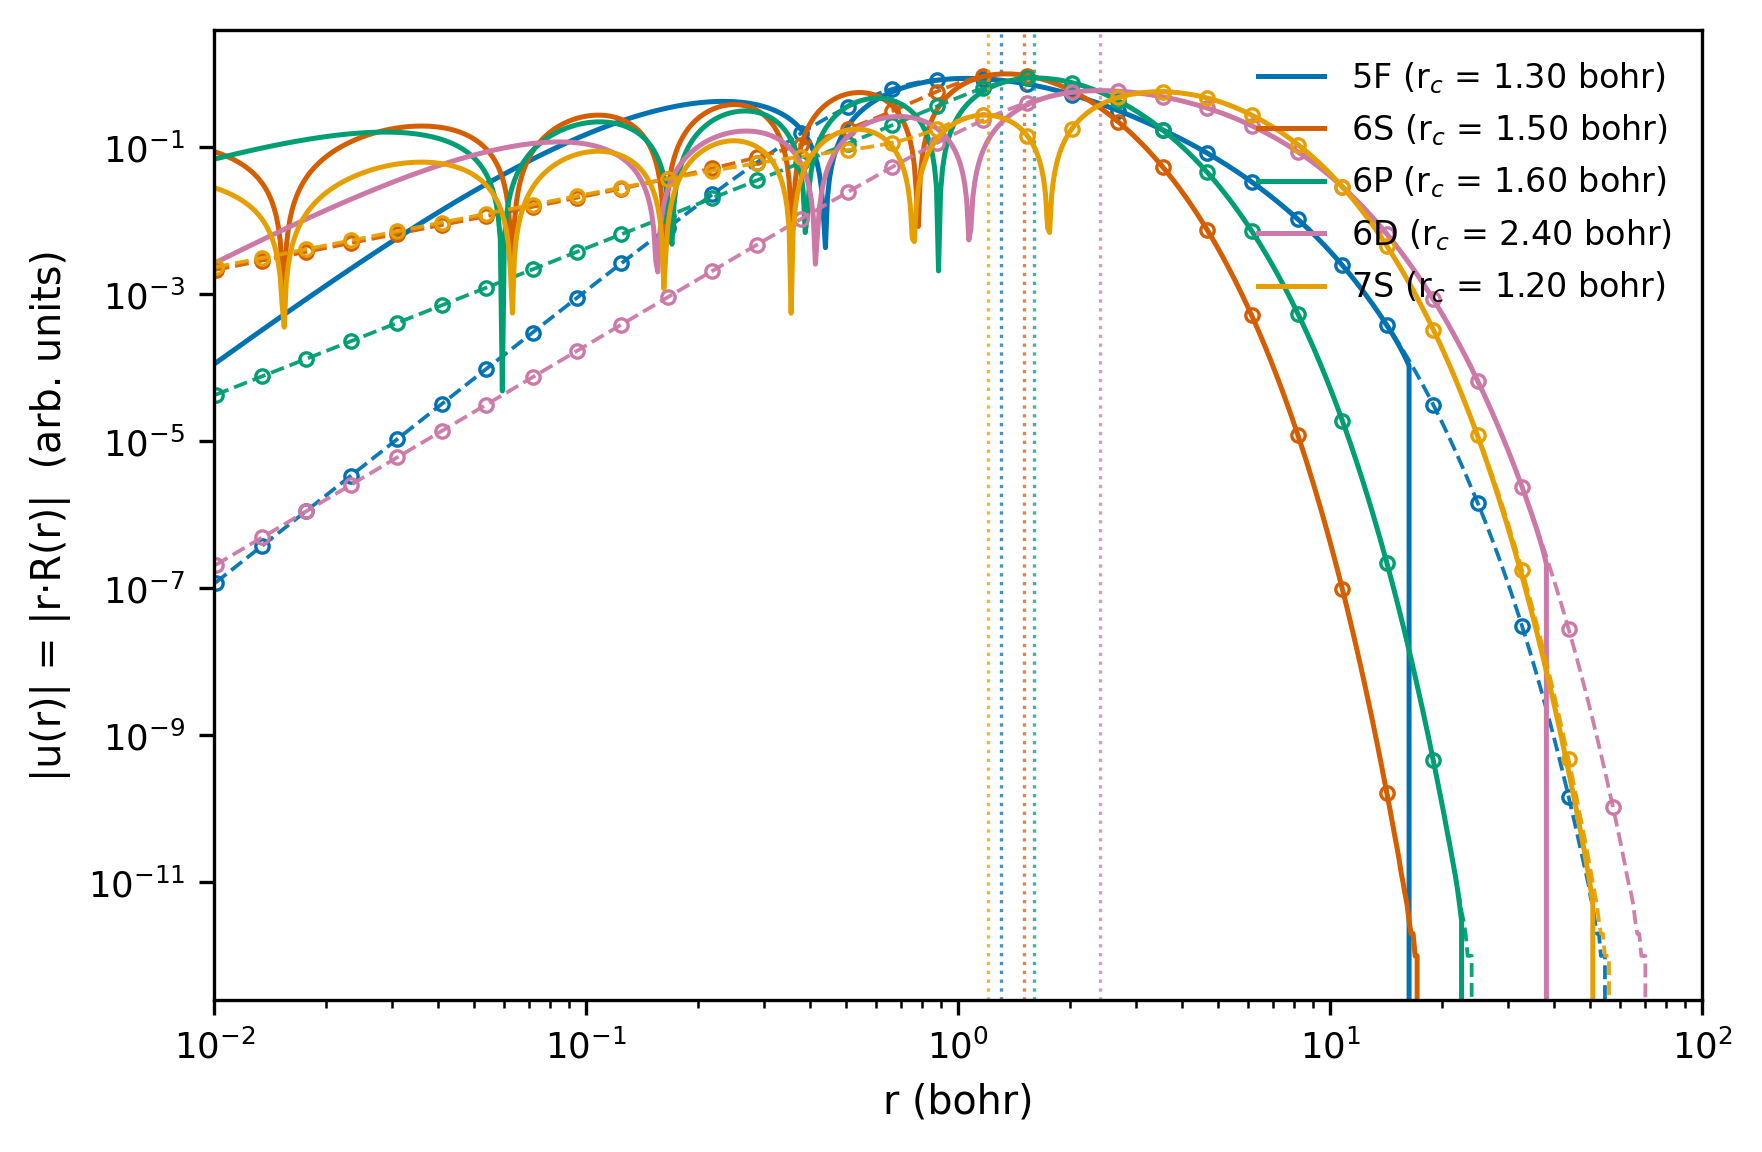
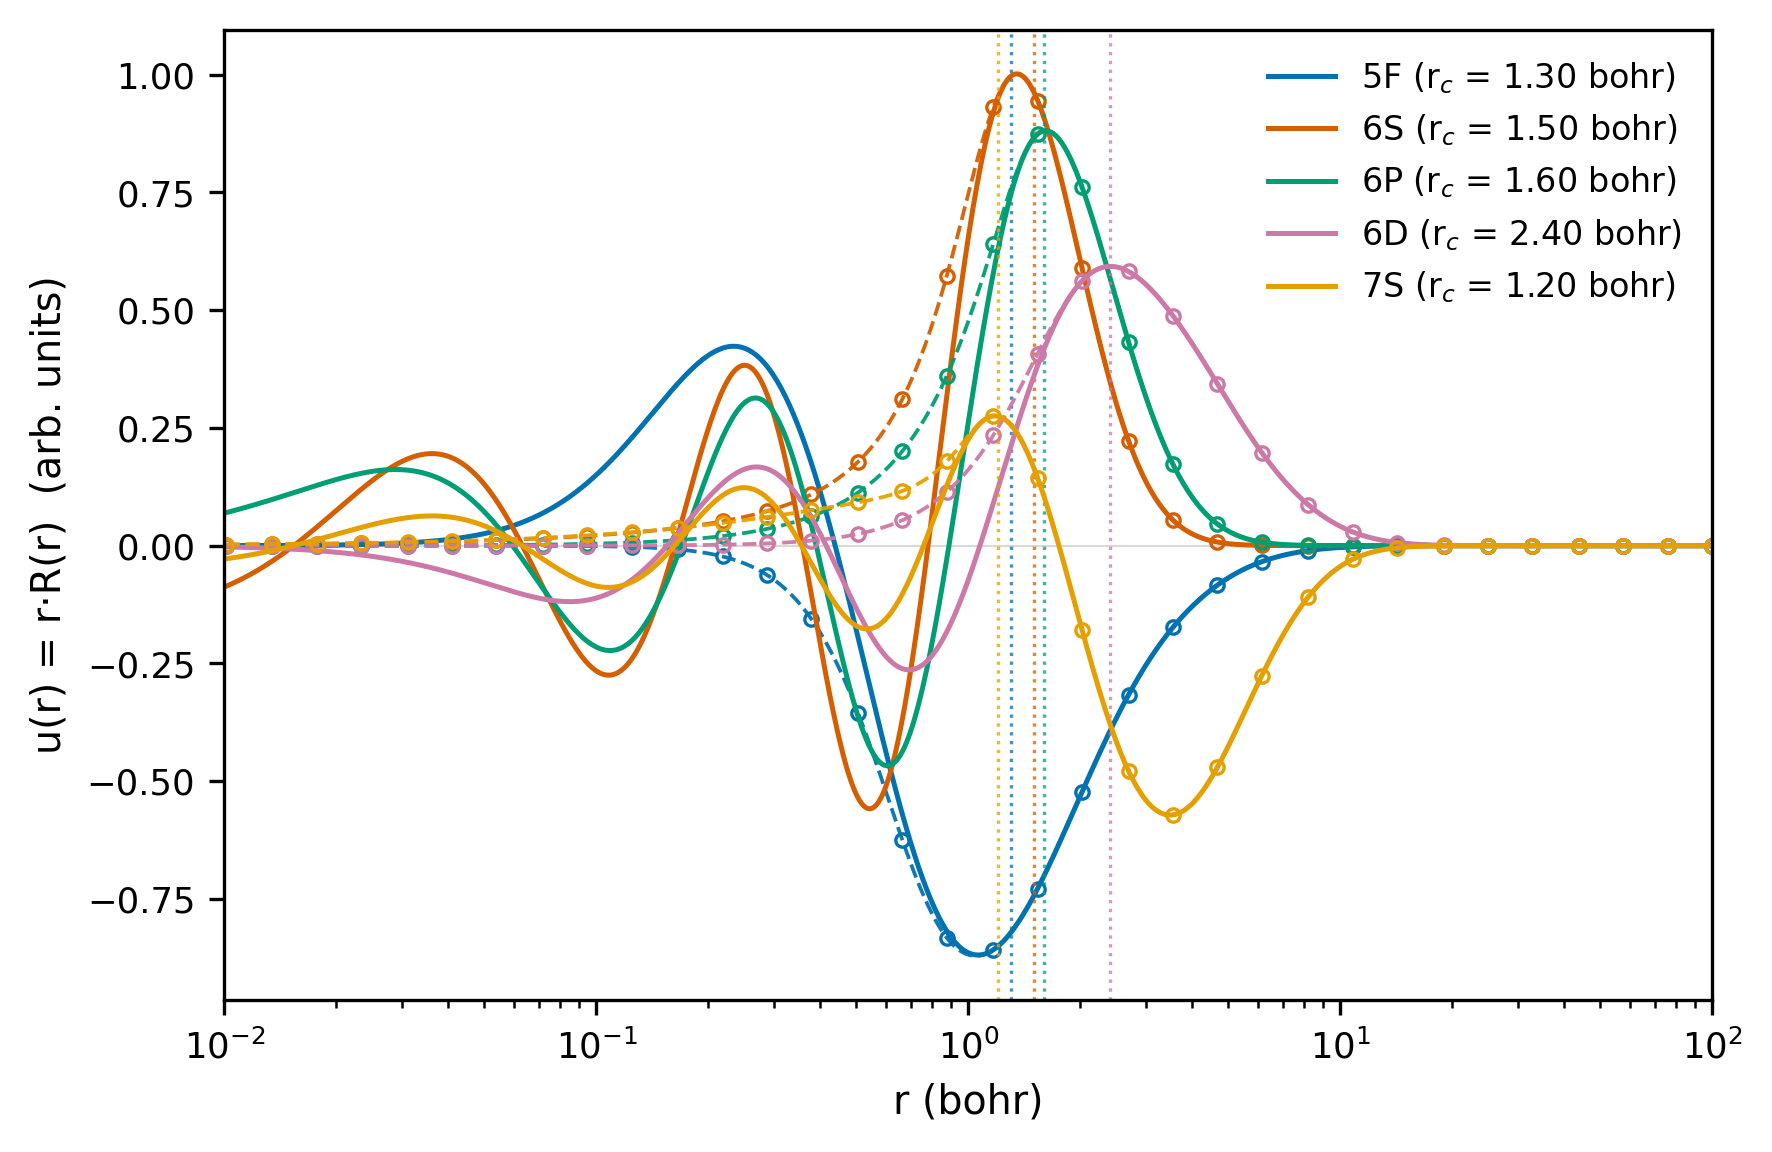
Fix: the shipped fig_radial_logx still had a logarithmic ordinate
The previous commit edited make_figures with a text replace that silently did not match,
so the pipeline kept passing log_ordinate=True while a hand-made call to figure_radial
(without it) produced a linear figure. That hand-made call is what got verified, not the
artifact -- hence 'the figure is still the same'. The file shipped byte-identical to the
log-y render.

- the shipped variant now really is log x / linear u;
- new test test_the_shipped_configuration_is_what_we_think_it_is runs make_figures and
  asserts the axes scales of the three figures it writes, so the arguments rather than a
  convenient call are pinned;
- verified by hashing the artifact against both candidate renders.

Tests: 30.

diff --git a/tests/test_figures.py b/tests/test_figures.py
@@ -239,3 +239,34 @@ def test_the_diagnostic_variant_has_a_log_abscissa_and_a_linear_ordinate(capture
     assert [line.get_color() for line in symbols] == [line.get_color() for line in solid]
     assert axes.get_ylabel().startswith('u(r) = r·R(r)')
     assert axes.get_title() == '' and len(axes.child_axes) == 0
+
+
+def test_the_shipped_configuration_is_what_we_think_it_is(monkeypatch, tmp_path):
+    """Guard the *arguments make_figures passes*, not just a hand-made call.
+
+    This is the regression that slipped through once: the shipped ``fig_radial_logx`` kept
+    ``log_ordinate=True`` because a text edit silently did not match, and a test that called
+    ``figure_radial`` itself could not see it.
+    """
+    directory = write_run(tmp_path / 'run')
+    summary = {
+        'generation': {'wavefunctions': {'6S': {'rcut': 1.5}, '5F': {'rcut': 1.3}}},
+        'criteria': {'window': (-3.0, 3.0), 'pole_threshold': 20.0},
+    }
+    captured = {}
+
+    def fake_save(figure, out_base, plt, formats):
+        captured[Path(out_base).name] = figure
+        return out_base
+
+    monkeypatch.setattr(report_module, '_save', fake_save)
+    written = report_module.make_figures(summary, directory, tmp_path / 'data')
+
+    assert sorted(captured) == ['fig_logderiv', 'fig_radial', 'fig_radial_logx']
+    assert sorted(Path(path).stem for path in written) == sorted(captured)
+    linear = captured['fig_radial'].axes[0]
+    assert (linear.get_xscale(), linear.get_yscale()) == ('linear', 'linear')
+    logx = captured['fig_radial_logx'].axes[0]
+    assert (logx.get_xscale(), logx.get_yscale()) == ('log', 'linear')
+    assert logx.get_xlim() == pytest.approx((0.01, 100.0))
+    assert any(line.get_linestyle() == '--' for line in logx.get_lines())

diff --git a/src/aiida_ld1_scripts/report.py b/src/aiida_ld1_scripts/report.py
@@ -255,7 +255,7 @@ def make_figures(summary: Dict[str, Any], directory: str | Path,
             (figure_radial, 'fig_radial', {'rcuts': rcuts}),
             (figure_radial, 'fig_radial_logx',
              {'rcuts': rcuts, 'xscale': 'log', 'xlim': (1e-2, 1e2),
-              'pseudo_line': True, 'log_ordinate': True}),
+              'pseudo_line': True}),
             (figure_logderiv, 'fig_logderiv',
              {'window': summary['criteria']['window'],
               'threshold': summary['criteria']['pole_threshold']})):
